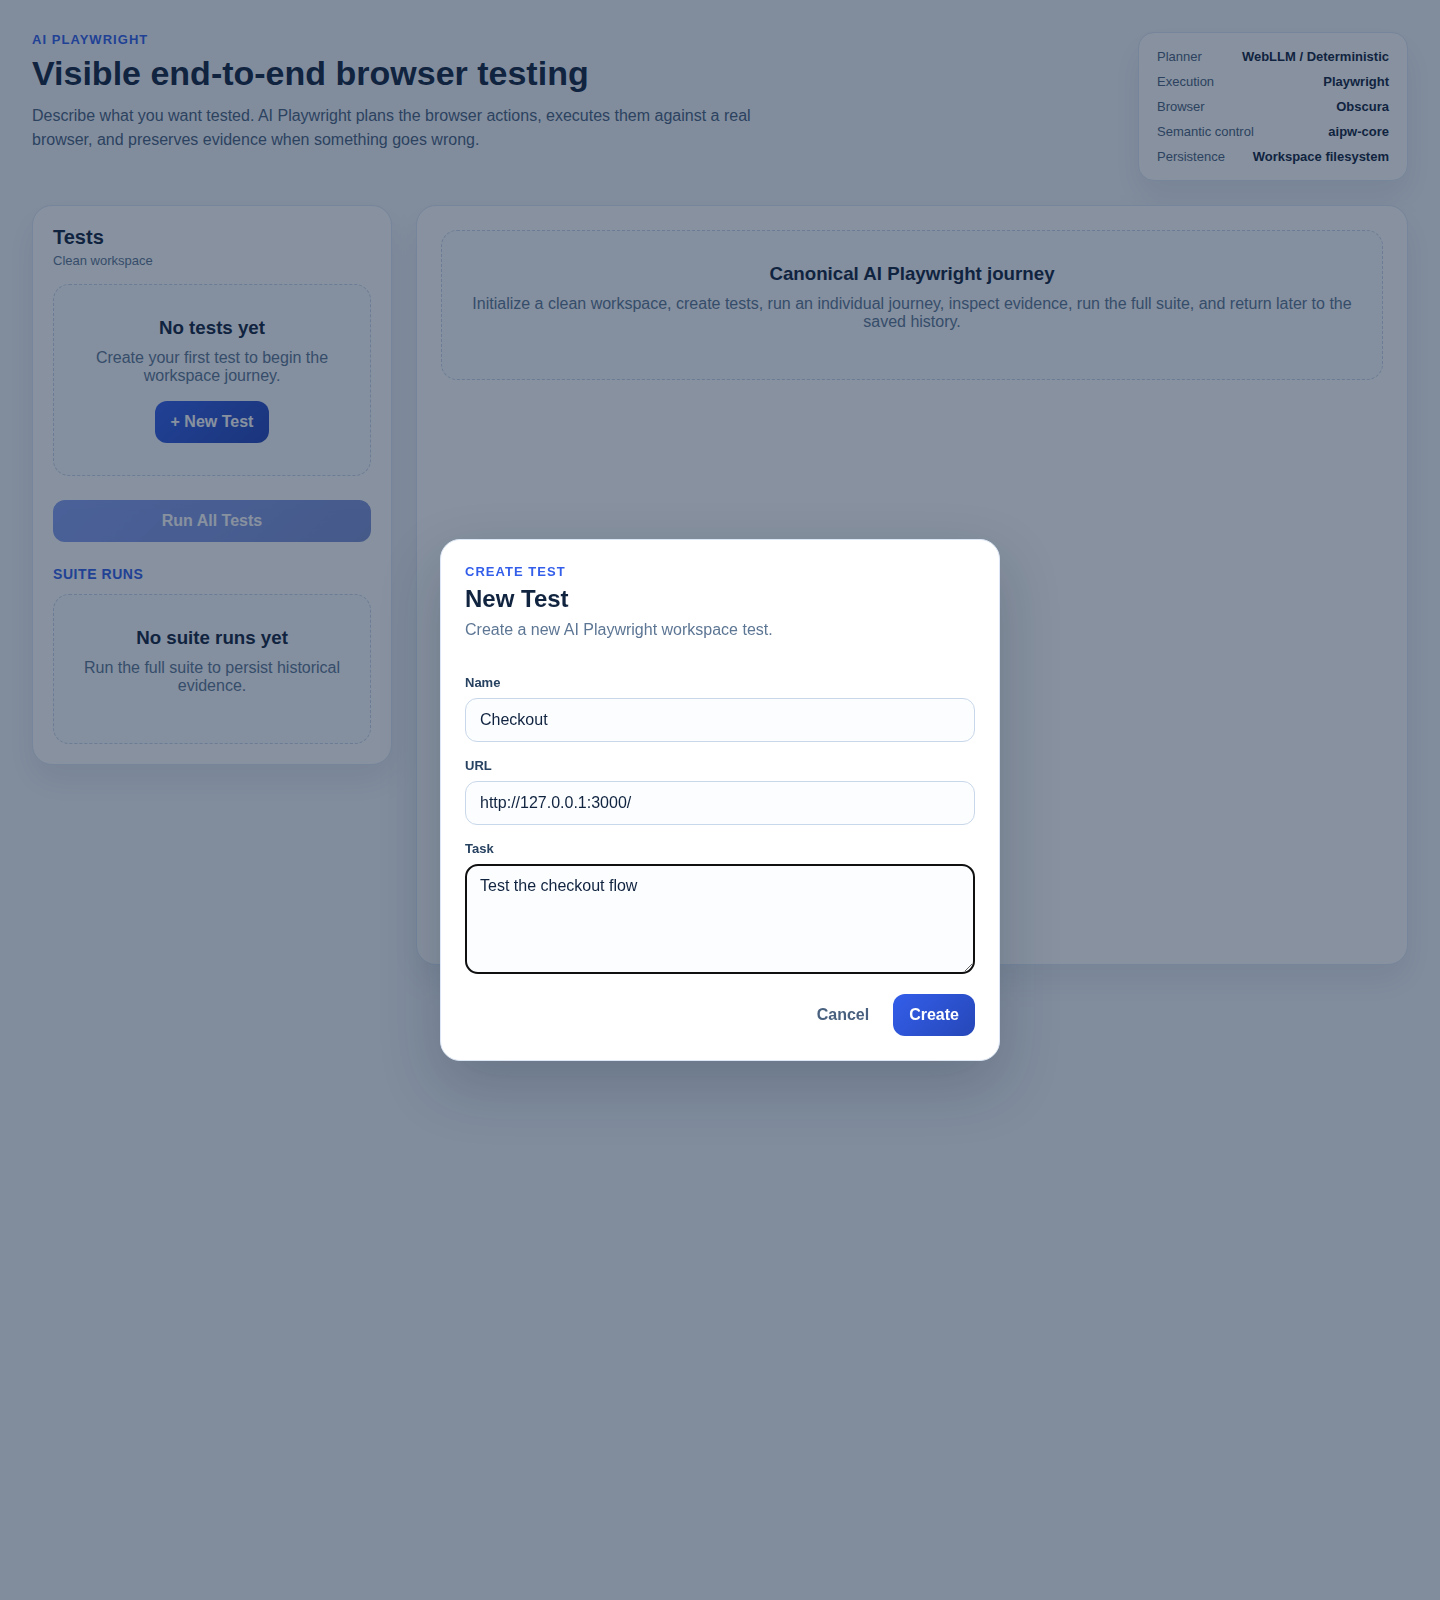
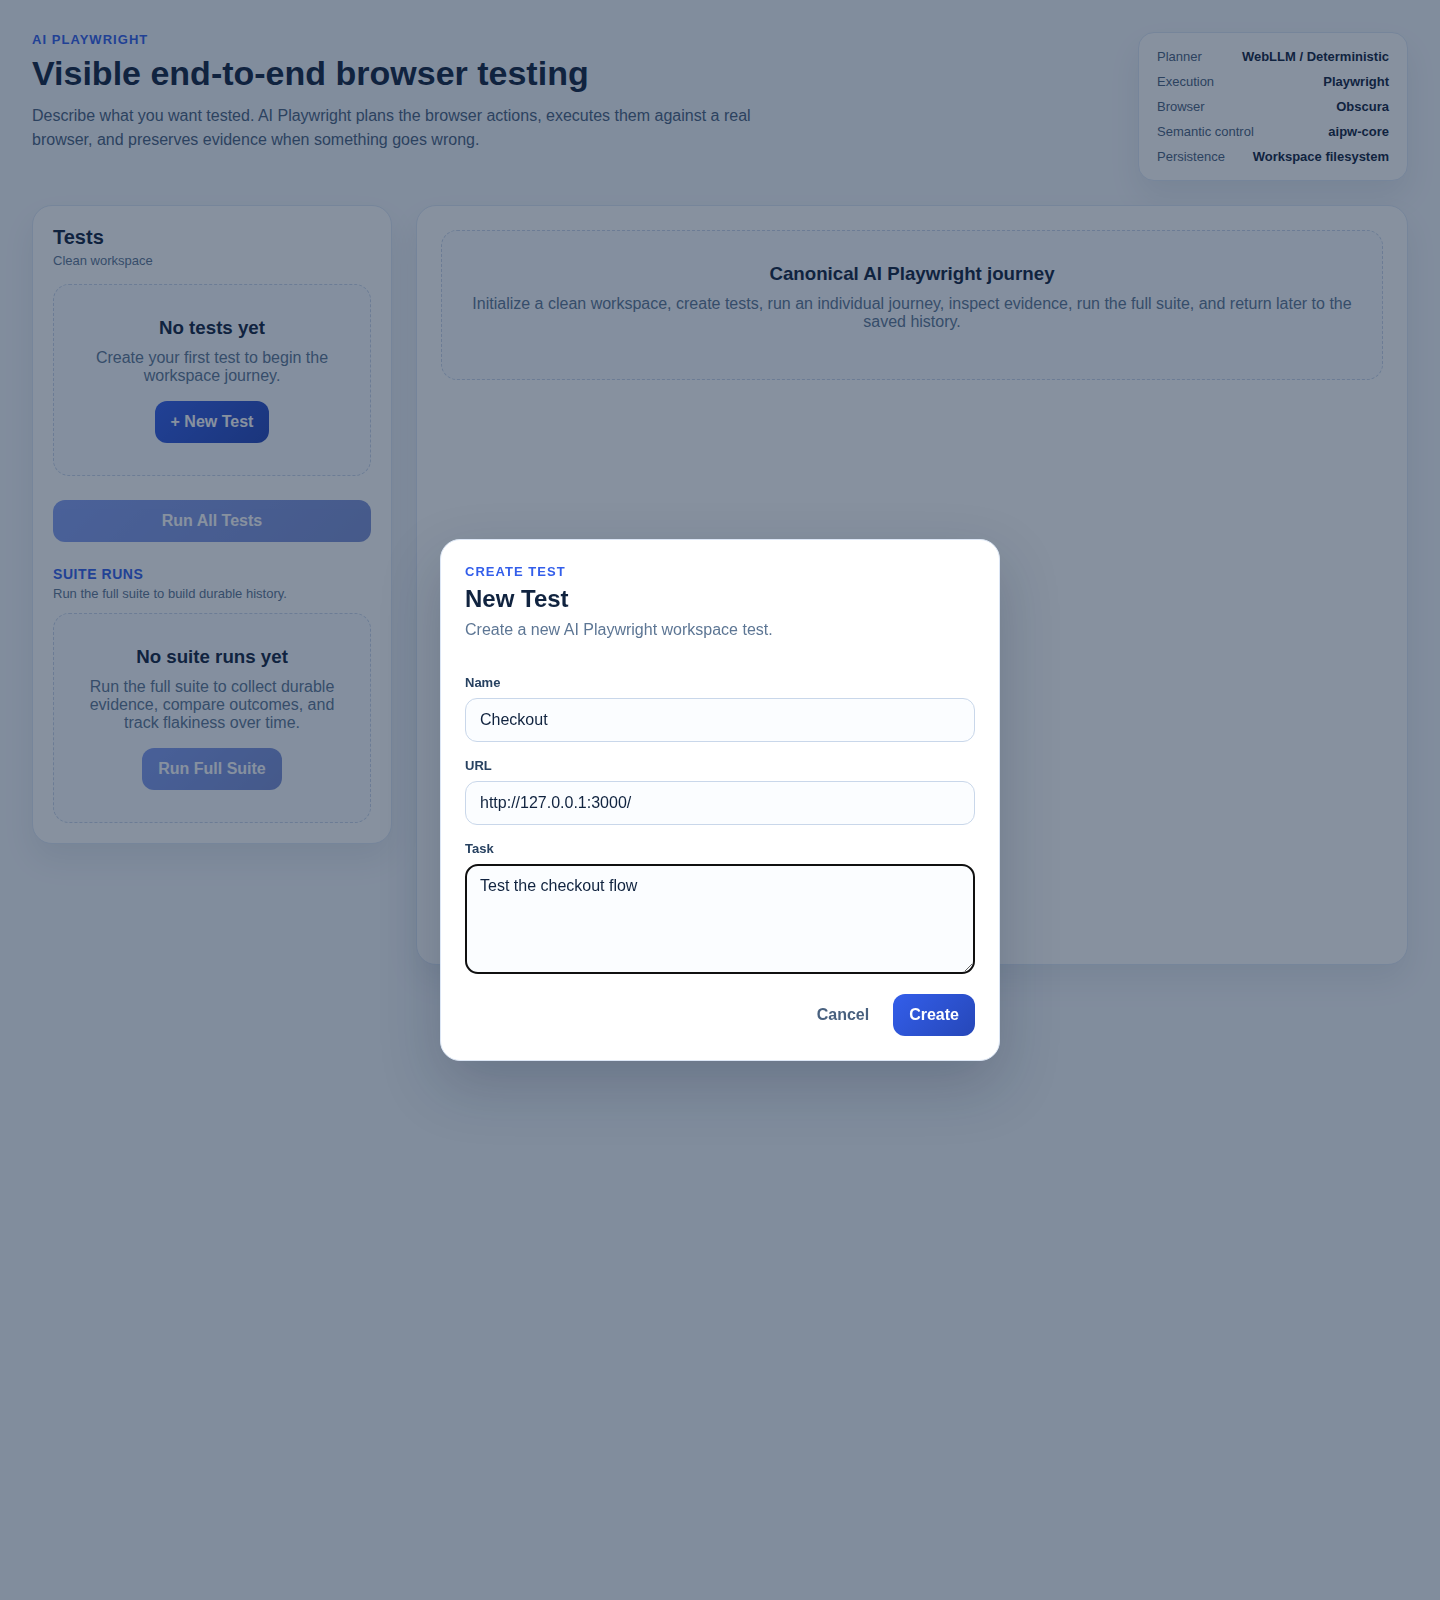
docs: refresh richer workspace walkthrough screenshots

Changed region(s): [[0.0625, 0.375, 0.25, 0.5]]

diff --git a/tests/e2e/cx-workspace.e2e.ts b/tests/e2e/cx-workspace.e2e.ts
@@ -13,6 +13,7 @@ const repoRoot = path.resolve(path.dirname(fileURLToPath(import.meta.url)), "../
 const screenshotDir = path.join(repoRoot, "docs/images/cx");
 const updateScreenshots = process.env.AIPW_UPDATE_CX_SCREENSHOTS === "1";
 const runCXWorkspace = process.env.AIPW_RUN_CX_WORKSPACE === "1" || updateScreenshots;
+const cxWorkspaceTimeoutMs = updateScreenshots ? 300000 : 180000;
 const cxWorkspaceTest = runCXWorkspace ? it : it.skip;
 const cliEntry = path.join(repoRoot, "packages/cli/index.ts");
 const tempRoots: string[] = [];
@@ -149,6 +150,7 @@ describe("CX workspace acceptance", () => {
     await page.getByLabel("Task").fill("Verify the home page smoke check");
     await page.getByRole("button", { name: "Create" }).click();
     await testCard(page, "Home").waitFor();
+    await maybeScreenshot(page, "03-test-workspace.png");
 
     await testCard(page, "Checkout").click();
     await page.getByRole("button", { name: "Run Test" }).click();
@@ -164,9 +166,9 @@ describe("CX workspace acceptance", () => {
     await maybeScreenshot(page, "06-failure.png");
     await page.getByRole("button", { name: /Step 4/ }).click();
     await page.getByText("Step Evidence").waitFor();
+    await page.getByText("View details (collapsed)").click();
+    await page.getByText("View full evidence (collapsed)").click();
     await maybeScreenshot(page, "07-failure-evidence.png");
-
-    await maybeScreenshot(page, "03-test-workspace.png");
 
     await testCard(page, "Home").click();
     await page.getByRole("button", { name: "Run Test" }).click();
@@ -184,14 +186,18 @@ describe("CX workspace acceptance", () => {
     await maybeScreenshot(page, "08-suite-running.png");
     await detailStatus(page, "FAIL").waitFor({ timeout: 50000 });
     await maybeScreenshot(page, "09-suite-result.png");
-    if (updateScreenshots) {
-      await page.waitForTimeout(500);
-      await maybeScreenshot(page, "10-suite-history.png");
-    }
 
     await closeServer(uiServer);
     uiServer = await startUIServer(workspaceDir, updateScreenshots ? 3001 : 0);
     const suiteRuns = await loadSuiteRunsWithRetry(serverBaseUrl(uiServer));
     expect(suiteRuns.length).toBeGreaterThanOrEqual(2);
-  }, 180000);
+    await page.goto(serverBaseUrl(uiServer));
+    await page.getByText("Failed 1 of last 2 runs").waitFor();
+    await page.locator(".suite-run-card").first().click();
+    await page.getByText("Suite Result").waitFor();
+    if (updateScreenshots) {
+      await page.waitForTimeout(500);
+      await maybeScreenshot(page, "10-suite-history.png");
+    }
+  }, cxWorkspaceTimeoutMs);
 });
